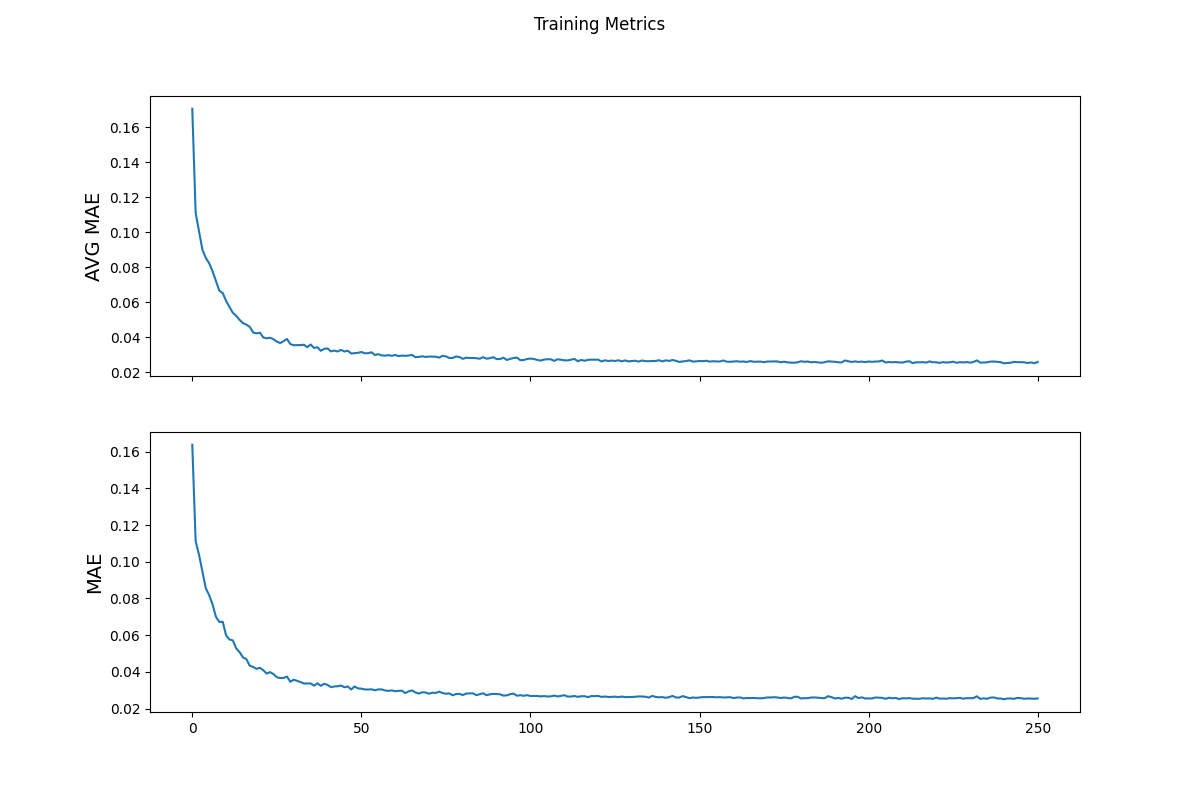
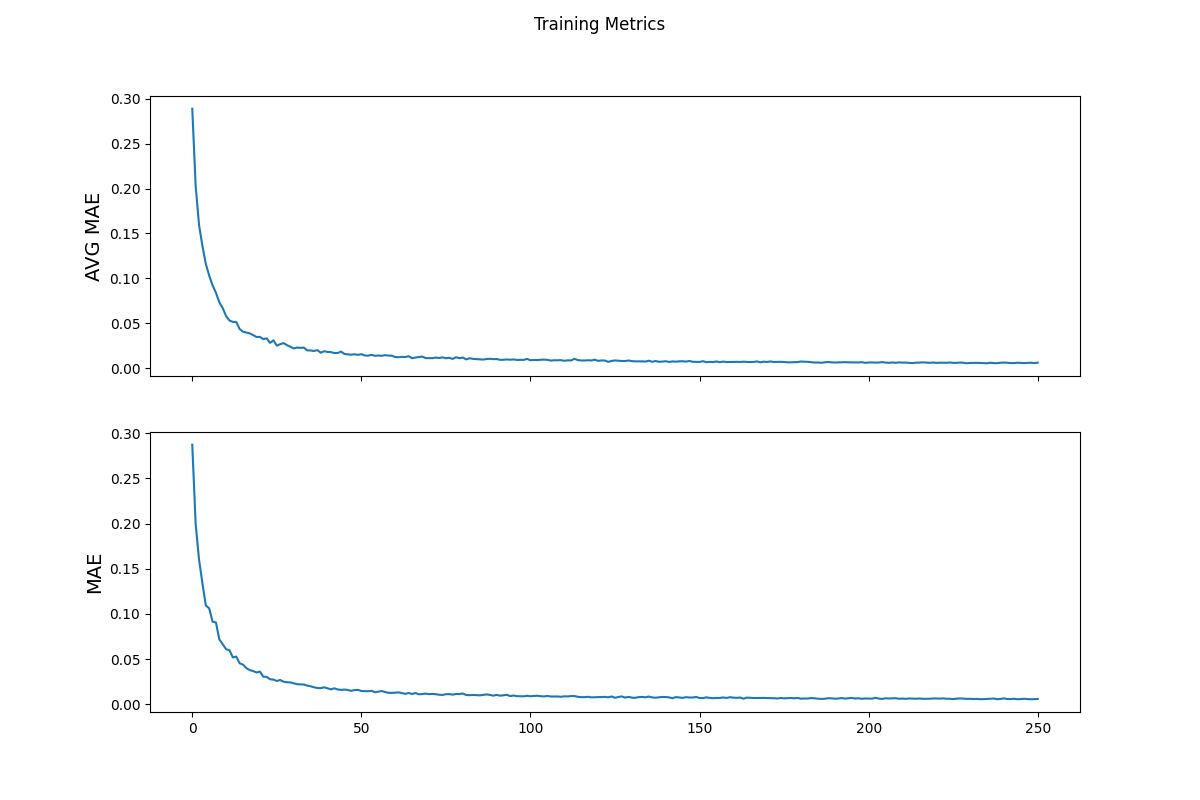
test

diff --git a/dnn_model.py b/dnn_model.py
@@ -48,7 +48,7 @@ model = tf.keras.models.Sequential([
                           kernel_regularizer=tf.keras.regularizers.l1_l2(l1=1e-5, l2=1e-4),
                           bias_regularizer=tf.keras.regularizers.l2(1e-4),
                           activity_regularizer=tf.keras.regularizers.l2(1e-5)),
-    tf.keras.layers.Dropout(0.1),
+    #tf.keras.layers.Dropout(0.1),
     RegularizedDense(26),
     RegularizedDense(12),
     tf.keras.layers.Dense(1)
